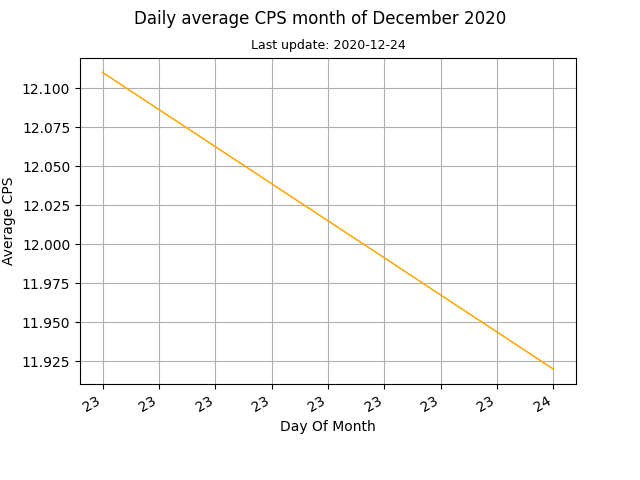
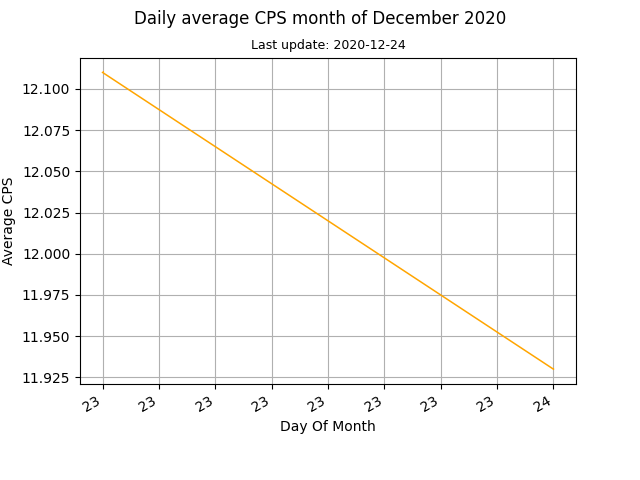
update data

diff --git a/docs/index.html b/docs/index.html
@@ -14,7 +14,7 @@
 <body>
 
 	<h1>Hello World!</h1>
-	<h2>Current cps: 11.94</h2>
+	<h2>Current cps: 12.03</h2>
 
 	<p><img src="images/monthly.png" alt="Mothly avg cps data"><img src="images/daily.png" alt="Daily avg cps data"></p>
 
